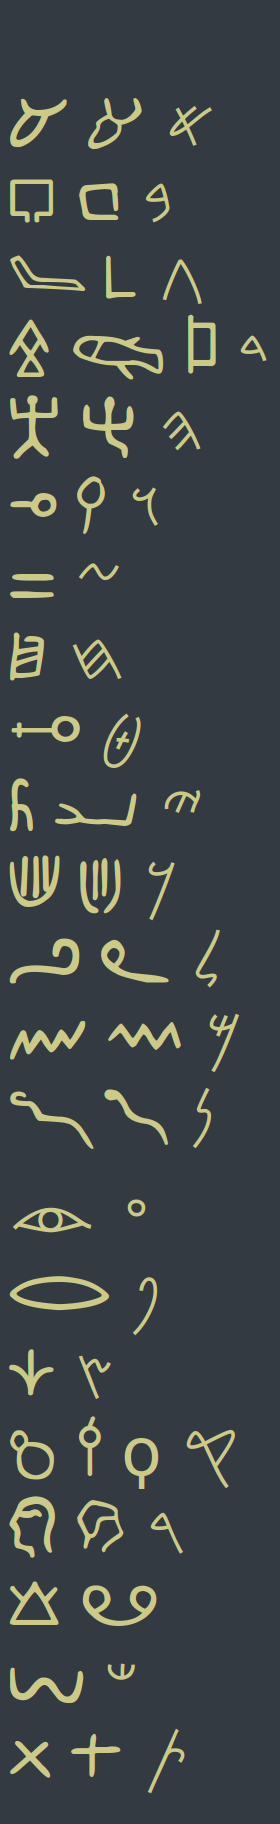
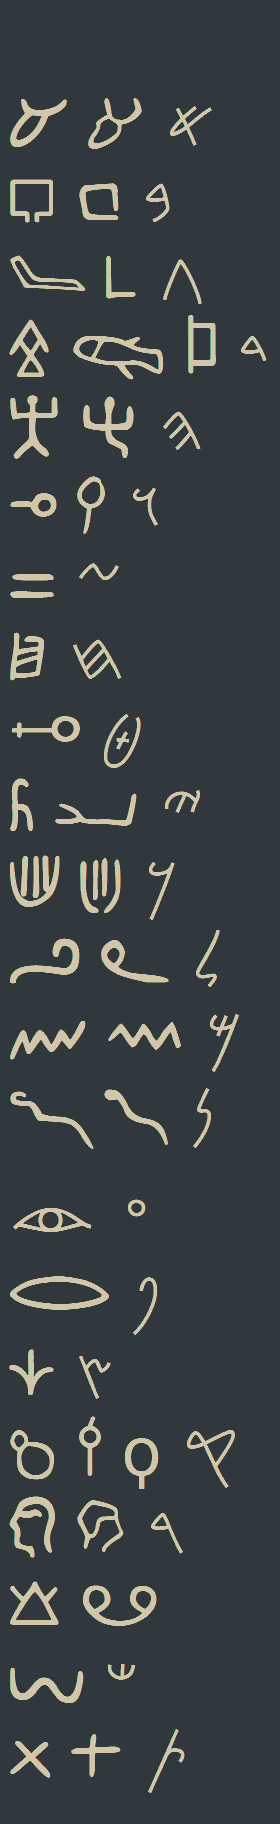
Code-in-headings formatting, /mnt/sinai, lost+found

diff --git a/publish.css b/publish.css
@@ -749,6 +749,13 @@ h1, h2, h3, h4, h5, h6 {
     color: var(--text-normal) !important;
 }
 
+/* make inline code in headings use the heading color */
+.markdown-preview-section h1 code,
+.markdown-preview-section h2 code,
+.markdown-preview-section h3 code {
+    color: inherit !important;
+}
+
 /** triple-backtick code blocks */
 
 /* match editing mode code block background to reading mode */

diff --git a/.obsidian/snippets/code.css b/.obsidian/snippets/code.css
@@ -14,6 +14,13 @@
     color: var(--text-normal) !important;
 }
 
+/* make inline code in headings use the heading color */
+.markdown-preview-section h1 code,
+.markdown-preview-section h2 code,
+.markdown-preview-section h3 code {
+    color: inherit !important;
+}
+
 /** triple-backtick code blocks */
 
 /* match editing mode code block background to reading mode */

diff --git a/lost+found/2/2.md b/lost+found/2/2.md
@@ -86,11 +86,13 @@ _(Narrator: 1 hands 0 the following image.)_
 
 1: Ok so I'm not a hardware expert or whatever, and I know real hardware is, well, hard. As in more complicated than what I'm about to say. But the basic idea as far as I think of it is:
 
-$$CPU = ALU + MEMORY$$ 0: Memory in what sense?
+$$CPU = ALU + MEMORY$$
+0: Memory in what sense?
 
 1: Not like RAM. I mean registers. Or, actually, here let me rewrite that.
 
-$$CPU = BooleanLogic + SequentialLogic$$
+$$CPU = Boolean \; Logic + Sequential \; Logic$$
+
 0: What's sequential logic?
 
 1: It's a way of doing logic stuff that incorporates time. Boolean gates like AND and OR don't really "store" anything. They just pass bits through and change them. Sequential logic is sort of like the basic "logic gates" you need in order to build stuff that stores data over time.
@@ -101,15 +103,15 @@ $$CPU = BooleanLogic + SequentialLogic$$
 
 0: Well if I understand your analogy correctly, you're saying:
 
-$$ALU = BooleanLogic$$
+$$ALU = Boolean \; Logic$$
 
 1: Oh hah oops, yeah that's wrong. I should have written this.
 
-$$ALU = CombinatorialLogic$$
+$$ALU = Combinatorial \; Logic$$
 
 That's the bits about flipping bits, but not about storing them over time. Or to say the same thing:
 
-$$ALU = BooleanLogic + Arithmetic$$
+$$ALU = Boolean\; Logic + Arithmetic$$
 
 0: Is that everything?
 
@@ -195,7 +197,9 @@ $$Computation = Arithmetic + Logic$$
 
 _(Narrator: Narrator resisted the urge to make a joke about loga---)_
 
-0: Valid point. That's the problem with writing a history of any idea. You can usually find the seeds of any big idea in writers almost arbitrarily far back in history. The end result of which (if taken seriously) is that you better learn hieroglyphs because you're gonna end up attributing basically everything to ancient Egypt.
+0: Valid point. That's the problem with writing a history of any idea. You can usually find the seeds of any big idea in writers almost arbitrarily far back in history. The end result of which (if taken seriously) is that you better learn hieroglyphs because you're gonna end up attributing basically everything to ancient Egypt.[^1]
+
+[^1]: Or at least Proto-Sinaitic.
 
 1: Can we not do that?
 
@@ -213,4 +217,4 @@ _(Narrator: Narrator resisted the urge to make a joke about loga---)_
 
 0: If you insist...
 
-goto: [[lost+found/2/3|2/3]]
+goto: [[lost+found/2/3]]

diff --git a/lost+found/2/1.md b/lost+found/2/1.md
@@ -1,5 +1,7 @@
 ## (2,1): The Names of the L||D
 
+### Or: Exodus Sicks
+
 0: Here we are.
 
 1: Oh thank G\*d.
@@ -143,7 +145,11 @@ _(Narrator: Look, 0, it's getting late.)_
 
 _(Narrator: 0, not listening to Narrator, continues working.)_
 
- 0: _(Typing into a shell.)_ So much. Too much to. More. The principles. So much more. Need to do mo...
+ 0: _(Typing into a shell)_ So much. Too much to. More. The principles. So much more.
+ 
+ Need to do...
+ 
+ mo...
 
 ```
 ~ # mo
@@ -157,7 +163,7 @@ _(Narrator: Good lord 0, get some rest.)_
 ~ # moun
 ```
 
-0: _(Mumbling to 0self)_ Just a bit. In a bit. But we still... The lambdas. The mus were. Need the other ones. The letters. We need the letters. So much mo...
+0: _(Mumbling to 0self)_ Just a bit. In a bit. We still... The lambdas. The mus. Need the other ones. The letters. We need the etc. The groups. So much mo...
 
 _(Narrator: 1 has gone to sleep, and Narrator is getting tired as well. Lacking any clear idea of what 0 is up to, and long since having stopped paying attention. Narrator decides it's time to call it a night.)_
 

diff --git a/mnt/sinai.md b/mnt/sinai.md
@@ -1,4 +1,3 @@
-
 ## 🌕
 
 > _System now sleeping._
@@ -202,62 +201,6 @@ Love always,
 
 -LD
 
----
-
-<img src="proto-sinaitic.png"
-     style="float:right; width:22%; height:auto;object-fit:contain; margin-left:1rem;">
-𐤁𐤔𐤋𐤔𐤌𐤉𐤌
-
-𐤅𐤔𐤕𐤉𐤌
-
-𐤍𐤕𐤉𐤁𐤅𐤕
-
-𐤐𐤋𐤉𐤀𐤅𐤕 
-
-𐤇𐤊𐤌𐤄
-
-𐤇𐤒𐤒
-
-𐤉𐤄
-
-𐤏𐤔𐤓𐤉𐤌
-
-𐤅𐤔𐤕𐤉𐤌 
-
-𐤀𐤅𐤕𐤉𐤅𐤕 
-
-𐤉𐤎𐤅𐤃 
-
-𐤇𐤒𐤒𐤍 
-
-𐤇𐤑𐤁𐤍
-
-𐤑𐤓𐤐𐤍
-
-𐤔𐤒𐤋𐤍
-
-𐤅𐤄𐤌𐤉𐤓𐤍
-
-𐤅𐤑𐤓 
-
-𐤁𐤄𐤌
-
-𐤀𐤕
-
-𐤊𐤋
-
-𐤄𐤉𐤑𐤅𐤓
-
-𐤅𐤀𐤕
-
-𐤊𐤋
-
-𐤄𐤏𐤕𐤉𐤃
-
-𐤋𐤑𐤅𐤓
-
-<div style="clear:both"></div>
-
----
+<img src="proto-sinaitic-bg-transparent.png" style="width:42%;">
 
 [[lost+found/2/2|IRET]]

diff --git a/lost+found/2/5.md b/lost+found/2/5.md
@@ -1,7 +1,14 @@
 ## (2,5): The Second Names of /dev/zero
+### Or: Name of the LꞀ
+### Or: Return of the L||D
+### Or: Yet Another Γ. Ꞁ. N.O.T. L||Ꞁ
+### Or: `return name :: names`
+### Or: `ret cons`
 
 > _So why do I mention these mathematicians in particular? Because their students really became computer science._
 > -Andrew Appel, Turing, Gödel, and Church at Princeton in the 1930s.
+
+---
 
 0: So, after Cantor.
 

diff --git a/lost+found/3/1.md b/lost+found/3/1.md
@@ -1,11 +1,10 @@
 ## (3,1): Church's Beginnings
-
+### Or: And he called
 ### Or: Let there be calls
 ### Or: Numbers are calls
 ### Or: Booleans are calls
 ### Or: Control Flow is calls
 ### Or: Data structures are calls
-### Or: And he called
 
 0: Once upon a time, there was a guy named Sam.
 

diff --git a/zero/Todo.md b/zero/Todo.md
@@ -19,14 +19,14 @@ Solution
 	- [x] 5
 
 - [ ] lost+found/2
-	- [ ] 1
-	- [ ] 2
+	- [x] 1
+	- [x] 2
 	- [ ] 3
 	- [ ] 4
 	- [ ] 5
 
 - [ ] lost+found/3
-	- [ ] 1
+	- [x] 1
 	- [ ] 2
 	- [ ] 3
 	- [ ] 4

diff --git a/lost+found/1/5.md b/lost+found/1/5.md
@@ -686,6 +686,6 @@ But already by 1935, it had started a revolution in the foundations of mathemati
 
 0: It's easy.
 
-goto: [[lost+found/2/1|Exodus Sicks]]
+goto: [[lost+found/2/1]]
 
 [^1]: \[sic\]

diff --git a/lost+found/1/1.md b/lost+found/1/1.md
@@ -211,4 +211,4 @@ of "new" stuff.
 
 0: I'll explain, follow me.
 
-goto: [[lost+found/1/2|./2]]
+goto: [[lost+found/1/2]]
